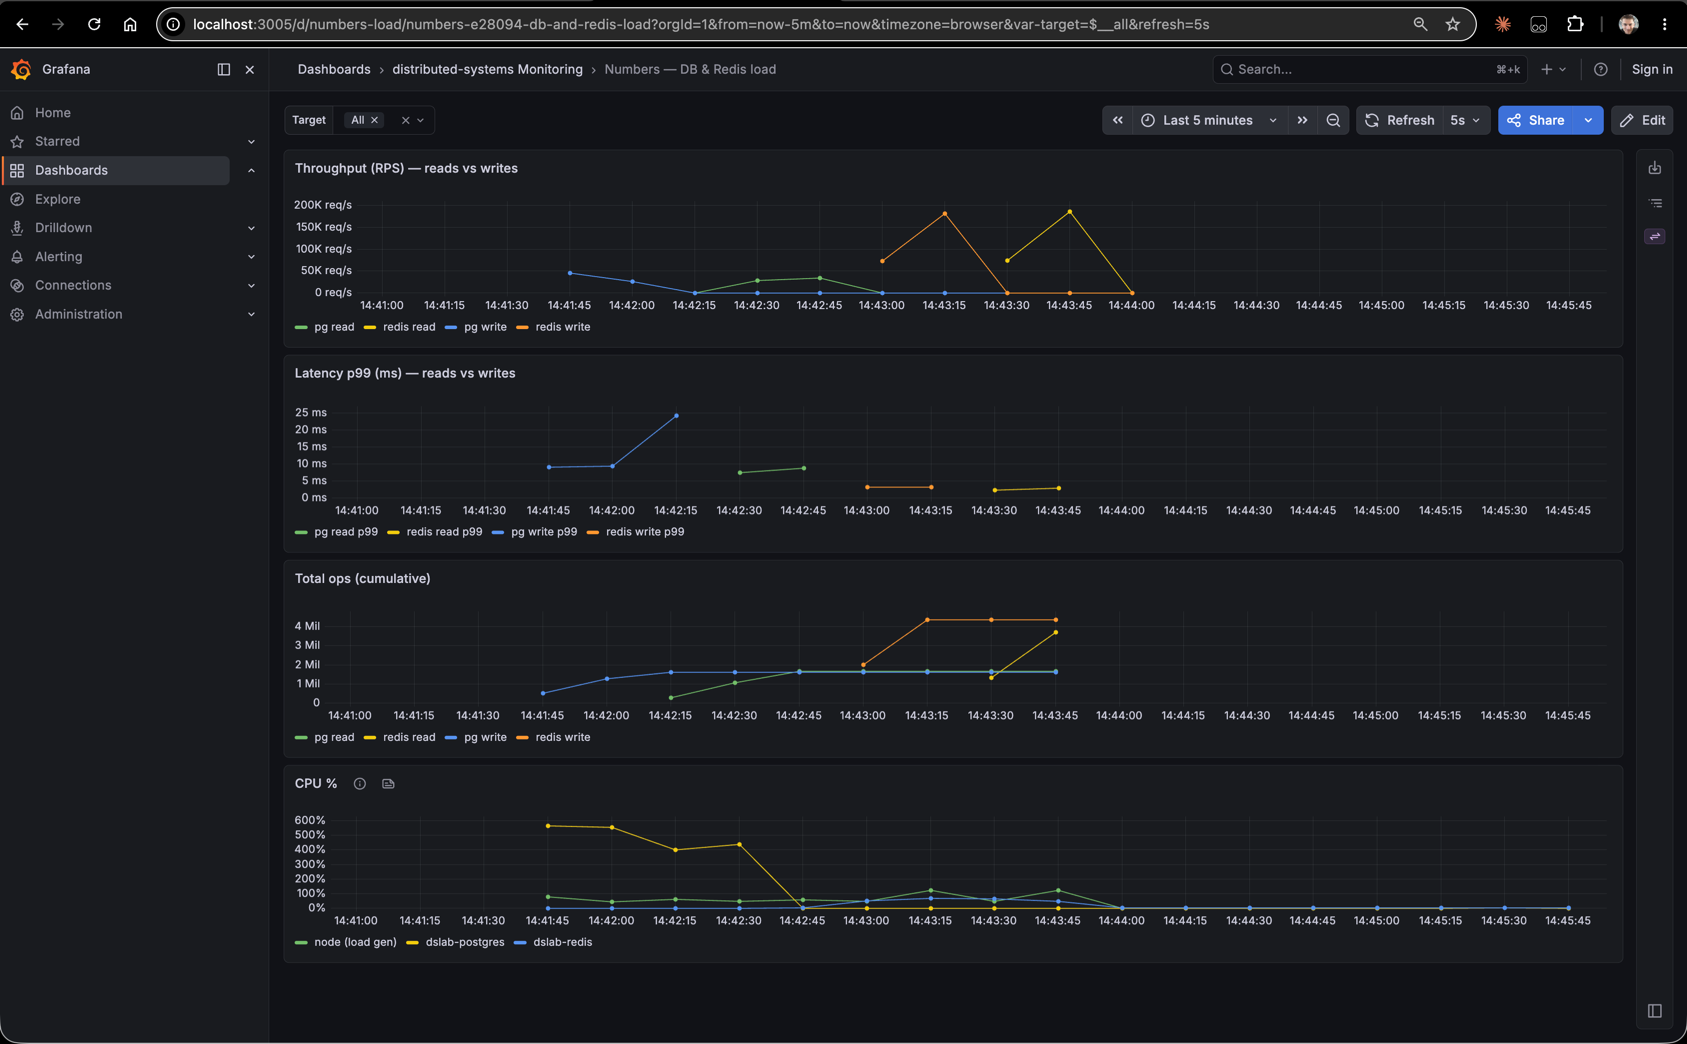
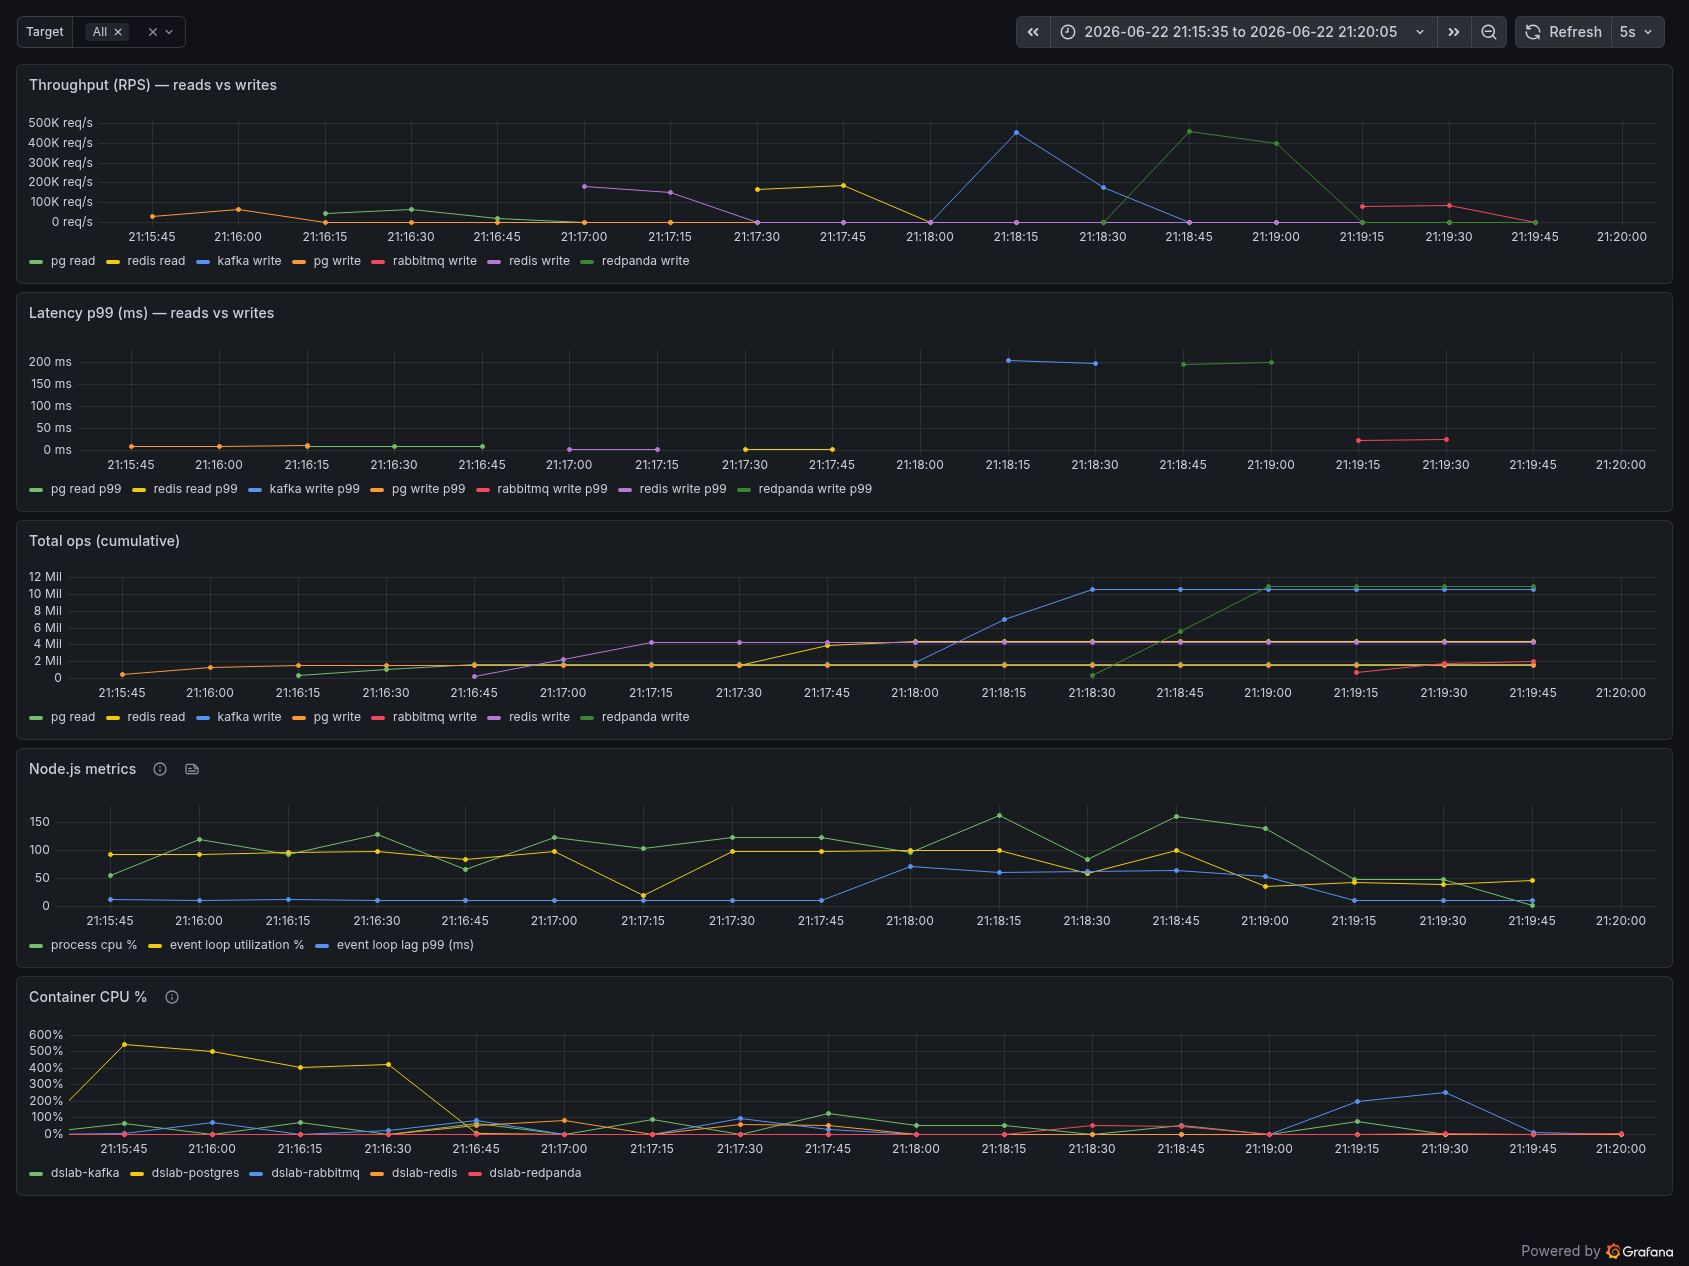
Fix renderer auth token env var
Claude-Session: https://claude.ai/code/session_0197srYQfLXxhidRaVM8eBSd

diff --git a/00-numbers/README.md b/00-numbers/README.md
@@ -1,3 +1,1 @@
-
-
 ![img.png](img.png)